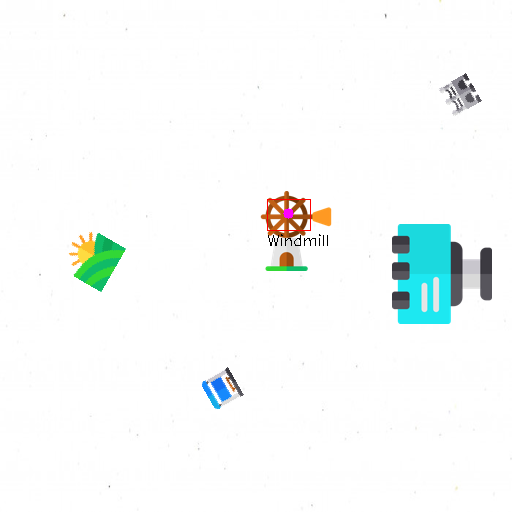
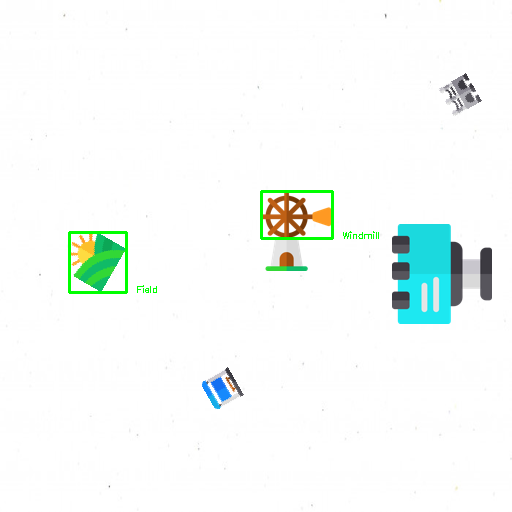
Commented code properly, fine tunded parameters, increased performance drastically

Changed region(s): [[0.5, 0.3438, 0.75, 0.5], [0.125, 0.4375, 0.25, 0.5938], [0.2812, 0.5625, 0.3125, 0.5938]]

diff --git a/task3.py b/task3.py
@@ -1,3 +1,5 @@
+# TODO: Use minAreaRect to find orientation, add parallelism
+
 import numpy as np
 import cv2
 import os
@@ -5,97 +7,130 @@ import os
 from scipy import stats
 
 # Searches for an icon in an image
-# Input: icon filepath; image filepath; threshold for accepting a match exists;
-# threshold for rejecting outliers
+# Input: icon cv2 image; image cv2 image; threshold for accepting a match exists;
+# keypoint descriptors for image; keypoint locations for image; keypoint descriptors for icon
 # Output: array of matching points, each in the form [x, y]
-def findMatchingPoints(icon, image, distanceThreshold):
-    icon = cv2.cvtColor(icon, cv2.COLOR_RGB2GRAY)
-    image = cv2.cvtColor(image, cv2.COLOR_RGB2GRAY)
-
-    sift = cv2.SIFT_create()
-
-    # each descriptor is an array, kinda like a hash of the point 
-    keypoints1, descriptors1 = sift.detectAndCompute(icon, None)
-    keypoints2, descriptors2 = sift.detectAndCompute(image, None)
-    # print(cv2.KeyPoint_convert(keypoints2))
-
-    bf = cv2.BFMatcher(cv2.NORM_L1, crossCheck=True)
-
-    matches = bf.match(descriptors1, descriptors2)
+def findMatchingPoints(icon, image, distanceThreshold, imageDescriptors, imageKeypoints, iconDescriptors):
+    # Uses sift to generate list of matching points between icon and image
+    bf = cv2.BFMatcher(cv2.NORM_L1, crossCheck = True)
+    matches = bf.match(iconDescriptors, imageDescriptors)
+    # Sorts the matches in ascending order, starting with the closest match 
     matches = sorted(matches, key = lambda x: x.distance)
 
     # Add all keypoints in the test image that match a keypoint in the icon to array
     matchedImagePoints = []
     for match in matches:
         if match.distance < distanceThreshold:
-            matchedImagePoints.append(keypoints2[match.trainIdx])
+            matchedImagePoints.append(imageKeypoints[match.trainIdx])
             # print(match.imgIdx, match.queryIdx, match.trainIdx)
     
+    # Returns matched points in an easier to use format
     matchedImagePoints = cv2.KeyPoint_convert(matchedImagePoints)
-
     return matchedImagePoints
 
+# Generates bounding rectangles around all closed shapes in an image
+# Input: image as cv2 image
+# Output: tuple of bounding rectangles, all in the format [x, y, width, height]
 def findBoundingRectangles(image):
-    # Tried using thresholding to solve problem of incorrect edge detection (doesn't identify grey edges),
-    # neither this didn't seemed to help
-    # returnValue, thresholdedImage = cv2.threshold(grey, 240, 255, cv2.THRESH_BINARY)
-
     # Conversion to greyscale seems to work better
     grey = cv2.cvtColor(image, cv2.COLOR_RGB2GRAY)
-    edges = cv2.Canny(grey, 100, 500)
+
+    # Tried using thresholding to solve problem of incorrect edge detection (doesn't identify grey edges),
+    # neither this didn't seemed to help
+    # returnValue, grey = cv2.threshold(grey, 240, 255, cv2.THRESH_BINARY)
+
+    # Detects edges, then converts this to a contour map
+    edges = cv2.Canny(grey, 100, 200)
     contours, hierarchy = cv2.findContours(edges, cv2.RETR_EXTERNAL, cv2.CHAIN_APPROX_NONE) 
     # cv2.drawContours(image, contours, -1, (0, 255, 0), 3)
     
+    
     # Create a list of bounding boxes, round each continuous contour
     boundingRectangles = []
-    maxContourArea = 0
+    # maxContourArea = 0
     for contour in contours:
         rectangle = cv2.boundingRect(contour)
-        if cv2.contourArea(contour) > maxContourArea:
-            maxContourArea = cv2.contourArea(contour)
-        # Removes boxes created by noise in the data
+        # if cv2.contourArea(contour) > maxContourArea:
+        #     maxContourArea = cv2.contourArea(contour)
+        # Removes small boxes created by noise in the data
         if cv2.contourArea(contour) >= 100:
             boundingRectangles.append(rectangle)
-    print(maxContourArea)
+            # cv2.rectangle(image, (rectangle[0], rectangle[1]), (rectangle[0] + rectangle[2], rectangle[1] + rectangle[3]), (0, 255, 0))
+    # print(maxContourArea)
+    
+    # cv2.imshow('image', cv2.resize(image, (800, 600)))
+    # k = cv2.waitKey(0) & 0xff
 
     return boundingRectangles
 
-def findIconInImage(icon, iconName, image, pointsThreshold, distanceThreshold, boundingRectangles):
+# Given one icon, tries to find if it exists in one image
+# Inputs: icon as a cv2 image; icon's name, for labelling; threshold for determining how many points to count a match;
+# threshold for determining if two points match; list of bounding rectangles of shapes in image; list of keypoint descriptors in image;
+# list of keypoint locations in image; list of keypoint descriptors in icon
+# Output: tuple of information about the bounding box most likely to contain the icon
+def findIconInImage(icon, iconName, image, pointsThreshold, distanceThreshold, boundingRectangles, imageDescriptors, imageKeypoints, iconDescriptors):
     # Finds the matching points of the icon in the image, if they exist
-    matchingPoints = findMatchingPoints(icon, image, distanceThreshold)
+    matchingPoints = findMatchingPoints(icon, image, distanceThreshold, imageDescriptors, imageKeypoints, iconDescriptors)
 
+    # bestMatch is the index of the bounding box most likely to contain icon
     bestMatch = 0
-    bestMatchNumber = 0
+    # bestMatchMagnitude is how many of the icon's points are in this box
+    bestMatchMagnitude = 0
     for i in range(len(boundingRectangles)):
         x, y, width, height = boundingRectangles[i]
 
+        # Check how many icon points are in each bounding box
         matchNumber = 0
         for point in matchingPoints:
             if point[0] >= x and point[0] <= x + width:
                 if point[1] >= y and point[1] <= y + height:
                     matchNumber += 1
 
-        if matchNumber > bestMatchNumber:
-            bestMatchNumber = matchNumber
+        # Only keep best matching box
+        if matchNumber > bestMatchMagnitude:
+            bestMatchMagnitude = matchNumber
             bestMatch = i
-        if matchNumber == bestMatchNumber:
-            originalSize = boundingRectangles[bestMatch]
-            originalSize = originalSize[2] * originalSize[3]
-            newSize = width * height
-            if newSize > originalSize:
-                bestMatchNumber = matchNumber
-                bestMatch = i
 
-    if bestMatchNumber > pointsThreshold:
+    # If there are enough points in any box to constitute a match, return information about that box 
+    if bestMatchMagnitude > pointsThreshold:
         x, y, width, height = boundingRectangles[bestMatch]
-        return (bestMatch, bestMatchNumber, iconName)
+        return (bestMatch, bestMatchMagnitude, iconName)
     else:
         return None
 
+# Finds the keypoints in each image and icon
+# Input: list of all images as cv2 images; list of all icons as cv2 images
+# Output: list of keypoint descriptors in image; list of keypoint locations in image; list of keypoint descriptors in icon
+def findKeyPoints(images, icons):
+    # Each descriptor is an array, kind of like a hash of the point 
+    imagesDescriptors = []
+    imagesKeypoints = []
+    iconsDescriptors = []
+
+    # Uses SIFT to identify keypoints in each, converting to greyscale seems to help performance
+    sift = cv2.SIFT_create()
+    for image in images:
+        image = cv2.cvtColor(image, cv2.COLOR_RGB2GRAY)
+        imageKeypoints, imageDescriptors = sift.detectAndCompute(image, None)
+        imagesKeypoints.append(imageKeypoints)
+        imagesDescriptors.append(imageDescriptors)
+    for icon in icons:
+        icon = cv2.cvtColor(icon, cv2.COLOR_RGB2GRAY)
+        iconKeypoints, iconDescriptors = sift.detectAndCompute(icon, None)
+        iconsDescriptors.append(iconDescriptors)
+
+    # Icon keypoint location is unnecessary
+    return imagesDescriptors, imagesKeypoints, iconsDescriptors
+        
+# Identifies icons within images, saves images with bounding boxes around identified icons
+# Input: None
+# Output: None
 def main():
     # Determines how many matching points are needed to count as a match, higher means stricter
-    pointsThreshold = 5
+    # For unrotated: 5, forrotated: 3
+    pointsThreshold = 3
     # Determines how similar two points have to be to count as a match, lower means stricter
+    # For unrotated: 1000, for rotated: 1000
     distanceThreshold = 1000
 
     # Icon is the smaller image to search for, image is the larger image to search in
@@ -107,59 +142,63 @@ def main():
                  "Theatre", "Telephone Box", "Field", "Van", "Hydrant", "Billboard", "Police Station", "Hotel", "Post Office", "Library", "University", "Bus Stop", "Windmill",
                  "Tractor", "Sign", "Ferris Wheel", "Museum", "Fire Station", "Restaurant", "Hospital", "School", "Cemetery"]
     
+    
+    # Reads all icons and images to cv2 images
+    images = []
     icons = []
+    for imagePath in imagePaths:
+        imagePath = imagesLocation + imagePath
+        image = cv2.imread(imagePath)
+        images.append(image)
     for iconPath in iconPaths:
         path = './IconDataset/png/' + iconPath
         icon = cv2.imread(path)
-        # Slight blurring seems to remove false positives
-        # icon = cv2.blur(icon, (2, 2))
         icons.append(icon)
 
-    for i in range(len(imagePaths)):
-        imagePath = imagesLocation + imagePaths[i]
-        image = cv2.imread(imagePath)
+    # Identifies keypoint info in images and icons
+    imagesDescriptors, imagesKeypoints, iconsDescriptors = findKeyPoints(images, icons)
 
-        boundingRectangles = findBoundingRectangles(image)
+    for i in range(len(images)):
+        # Finds all bounding rectangles within each image
+        boundingRectangles = findBoundingRectangles(images[i])
 
-        # Limits each bounding box to at most one matching icon, using the closest one, to limit false positives
+        # Finds the bounding box the icon is most likely to fit in
         bestMatchInfo = []
         for j in range(len(iconPaths)):
-            bestMatch = findIconInImage(icons[j], iconNames[j], image, pointsThreshold, distanceThreshold, boundingRectangles)
+            bestMatch = findIconInImage(icons[j], iconNames[j], images[i], pointsThreshold, distanceThreshold, boundingRectangles,
+                                         imagesDescriptors[i], imagesKeypoints[i], iconsDescriptors[j])
             if bestMatch != None:
                 bestMatchInfo.append(bestMatch)
 
+        # Limits each bounding box to at most one matching icon, using the closest one, to limit false positives
         for j in range(len(boundingRectangles)):
             bestMatch = 0
-            bestMatchNumber = 0
+            bestMatchMagnitude = 0
 
             x, y, width, height = boundingRectangles[j]
 
             for k in range(len(bestMatchInfo)):
-                if bestMatchInfo[k][0] == j:
-                    if bestMatchInfo[k][1] > bestMatchNumber:
+                match, matchMagnitude, _ = bestMatchInfo[k]
+                if match == j:
+                    if matchMagnitude > bestMatchMagnitude:
                         bestMatch = k
-                        bestMatchNumber = bestMatchInfo[k][1]
+                        bestMatchMagnitude = matchMagnitude
 
-            if bestMatchNumber > 0:
+            # If a match does exist, draws the best on onto the image, and labels it
+            if bestMatchMagnitude > 0:
                 x, y, width, height = boundingRectangles[bestMatchInfo[bestMatch][0]]
                 iconName = bestMatchInfo[bestMatch][2]
                 print(f"Icon: {iconName}, Position (x, y, width, height): {x, y, width, height}")
-                cv2.rectangle(image, (x, y), (x + width, y + height), (0, 255, 0), 2)
-                cv2.putText(image, iconName, (x + width + 10,y + height), 0, 0.3, (0, 255, 0))
+                cv2.rectangle(images[i], (x, y), (x + width, y + height), (0, 255, 0), 2)
+                cv2.putText(images[i], iconName, (x + width + 10,y + height), 0, 0.3, (0, 255, 0))
 
 
-        cv2.imshow('image', cv2.resize(image, (800, 600)))
-        k = cv2.waitKey(0) & 0xff
+        # cv2.imshow('image', cv2.resize(images[i], (800, 600)))
+        # k = cv2.waitKey(0) & 0xff
 
-        if type(image) == np.ndarray:
-            # cv2.imshow('image', cv2.resize(image, (800, 600)))
-
-            # k = cv2.waitKey(0) & 0xff
-
-            # if k == 27:
-            #     cv2.destroyAllWindows()
-
-            cv2.imwrite("./Task3OutputImages/" + imagePaths[i], image)
+        # Saves the image, if is of right type
+        if type(images[i]) == np.ndarray:
+            cv2.imwrite("./Task3OutputImages/" + imagePaths[i], images[i])
             print("Image", i + 1, "done")
     
 
